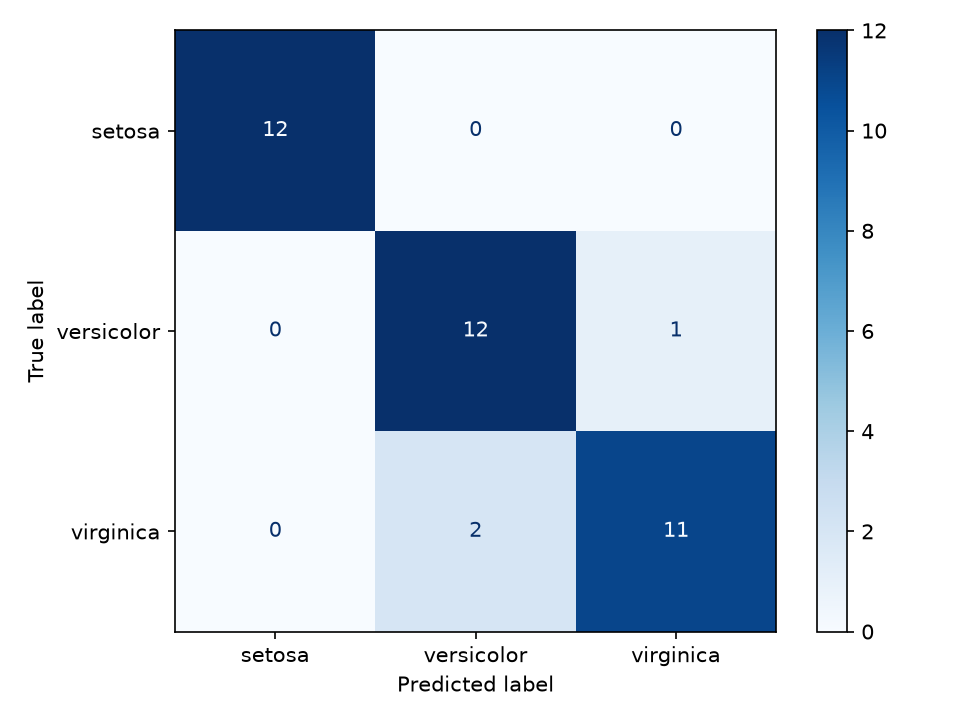
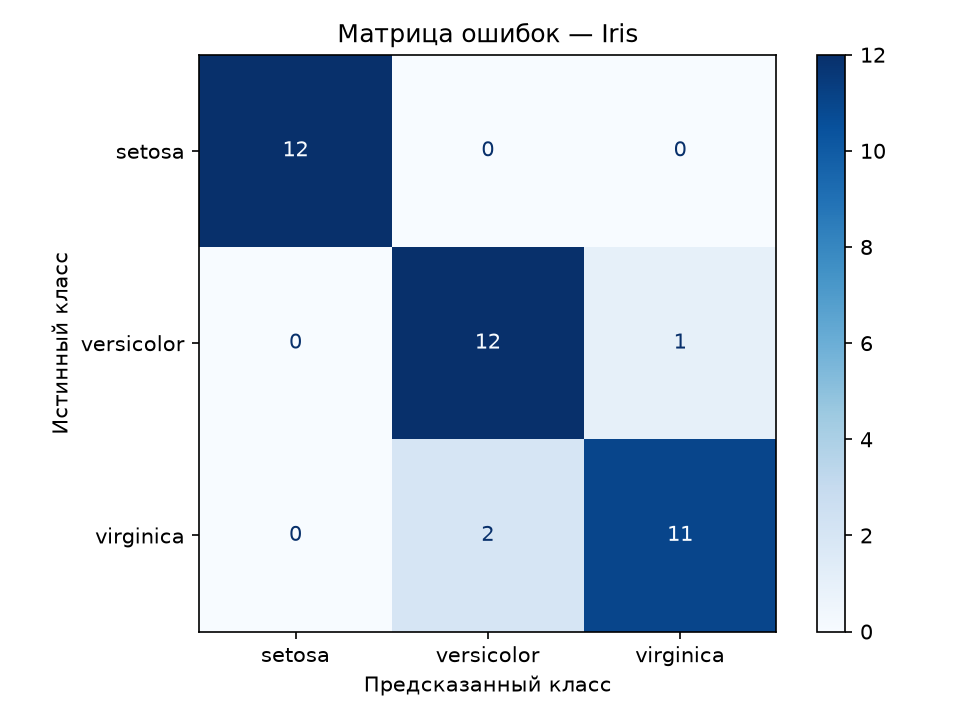
Update Lesson 2 homework

diff --git a/homework/homework_experiments.py b/homework/homework_experiments.py
@@ -21,6 +21,13 @@ OPTIMIZERS = {
     "RMSprop": torch.optim.RMSprop,
 }
 
+FEATURE_LABELS = {
+    "Baseline": "Исходные",
+    "Polynomial": "Полиномиальные",
+    "Interactions": "Взаимодействия",
+    "Statistics": "Статистические",
+}
+
 
 def load_experiment_data(csv_path):
     """Разделяет данные на обучающую, валидационную и тестовую выборки."""
@@ -150,7 +157,7 @@ def run_hyperparameter_search(train, validation, test, output_path):
             best_model = model
 
         logging.info(
-            "%-7s | lr=%5.3f | batch=%2d | validation loss=%.4f",
+            "%-7s | Скорость=%5.3f | Батч=%2d | Потери на валидации=%.4f",
             optimizer_name,
             lr,
             batch_size,
@@ -163,14 +170,14 @@ def run_hyperparameter_search(train, validation, test, output_path):
     best = results[0]
     test_metrics = evaluate_binary_model(best_model, test.features, test.targets)
 
-    print("\n3.1 Best hyperparameters")
-    print(f"Optimizer: {best['optimizer']}")
-    print(f"Learning rate: {best['learning_rate']}")
-    print(f"Batch size: {best['batch_size']}")
-    print(f"Validation loss: {best['validation_loss']:.4f}")
-    print(f"Test accuracy: {test_metrics['accuracy']:.4f}")
-    print(f"Test ROC-AUC: {test_metrics['roc_auc']:.4f}")
-    print(f"Results saved to: {output_path}")
+    print("\n3.1 Исследование гиперпараметров")
+    print(f"Лучший оптимизатор: {best['optimizer']}")
+    print(f"Скорость обучения: {best['learning_rate']}")
+    print(f"Размер батча: {best['batch_size']}")
+    print(f"Потери на валидации: {best['validation_loss']:.4f}")
+    print(f"Доля верных ответов на тестовой выборке: {test_metrics['accuracy']:.4f}")
+    print(f"ROC-AUC на тестовой выборке: {test_metrics['roc_auc']:.4f}")
+    print(f"Результаты сохранены: {output_path}")
 
     return best
 
@@ -208,10 +215,10 @@ def run_feature_engineering(train, validation, test, best, data_dir, plots_dir):
     original_count = train.features.shape[1]
     results = []
 
-    print("\n3.2 Feature engineering")
+    print("\n3.2 Feature Engineering")
     print(
-        f"{'Variant':<15} {'Features':>8} {'Val. loss':>10} "
-        f"{'Test acc.':>10} {'Test AUC':>10}"
+        f"{'Набор признаков':<16} {'Число':>8} {'BCE (валидация)':>16} "
+        f"{'Доля верных (тест)':>18} {'ROC-AUC (тест)':>15}"
     )
 
     for variant in ("Baseline", "Polynomial", "Interactions", "Statistics"):
@@ -251,10 +258,10 @@ def run_feature_engineering(train, validation, test, best, data_dir, plots_dir):
         )
 
         print(
-            f"{variant:<15} {train_x.shape[1]:>8} "
-            f"{val_metrics['loss']:>10.4f} "
-            f"{test_metrics['accuracy']:>10.4f} "
-            f"{test_metrics['roc_auc']:>10.4f}"
+            f"{FEATURE_LABELS[variant]:<16} {train_x.shape[1]:>8} "
+            f"{val_metrics['loss']:>16.4f} "
+            f"{test_metrics['accuracy']:>18.4f} "
+            f"{test_metrics['roc_auc']:>15.4f}"
         )
 
     results_path = data_dir / "feature_engineering_results.csv"
@@ -265,19 +272,20 @@ def run_feature_engineering(train, validation, test, best, data_dir, plots_dir):
 
     figure, axis = plt.subplots(figsize=(8, 4))
     bars = axis.bar(
-        [result["variant"] for result in results],
+        [FEATURE_LABELS[result["variant"]] for result in results],
         [result["validation_loss"] for result in results],
     )
     axis.bar_label(bars, fmt="%.4f", padding=3)
-    axis.set_ylabel("Validation loss (BCE)")
-    axis.set_title("Feature engineering — Breast Cancer")
+    axis.set_xlabel("Набор признаков")
+    axis.set_ylabel("Потери на валидации (BCE)")
+    axis.set_title("Сравнение наборов признаков — Breast Cancer")
     axis.margins(y=0.15)
     figure.tight_layout()
     figure.savefig(plot_path, dpi=150)
     plt.close(figure)
 
-    print(f"Results saved to: {results_path}")
-    print(f"Plot saved to: {plot_path}")
+    print(f"Результаты сохранены: {results_path}")
+    print(f"График сохранён: {plot_path}")
 
 
 def main():

diff --git a/homework/homework_datasets.py b/homework/homework_datasets.py
@@ -105,10 +105,11 @@ def main():
         dataset = CSVDataset(csv_path, target_column="price")
         features, target = dataset[0]
 
-        print(f"Rows: {len(dataset)}")
-        print(f"Feature shape: {tuple(dataset.features.shape)}")
-        print(f"First example: {features.tolist()}")
-        print(f"First target: {target.item()}")
+        print("\n2.1 Кастомный Dataset класс")
+        print(f"Количество строк: {len(dataset)}")
+        print(f"Размерность признаков: {tuple(dataset.features.shape)}")
+        print(f"Признаки первого примера: {features.tolist()}")
+        print(f"Целевое значение первого примера: {target.item()}")
 
 
 def save_dataset_csv(dataset, path):
@@ -151,9 +152,9 @@ def run_csv_regression(path, row_count):
             model(test.features), test.targets
         ).item()
     torch.save(model.state_dict(), path.parent.parent / "models" / "diabetes_linear.pth")
-    print("\n2.2 Diabetes — linear regression")
-    print(f"Best validation MSE: {best_mse:.2f}")
-    print(f"Test MSE: {test_mse:.2f}")
+    print("\nDiabetes — линейная регрессия")
+    print(f"Минимальная MSE на валидации: {best_mse:.2f}")
+    print(f"MSE на тестовой выборке: {test_mse:.2f}")
 
 
 def run_csv_classification(path, labels):
@@ -187,7 +188,7 @@ def run_csv_classification(path, labels):
             total_loss += loss.item() * len(targets)
 
         if epoch % 15 == 0:
-            logging.info("Epoch %d | Binary loss: %.4f", epoch, total_loss / len(train))
+            logging.info("Эпоха %d | Бинарная кросс-энтропия: %.4f", epoch, total_loss / len(train))
 
     model.eval()
     with torch.no_grad():
@@ -196,15 +197,16 @@ def run_csv_classification(path, labels):
     targets = test.targets.flatten().numpy()
     predictions = (probabilities >= 0.5).astype(int)
     torch.save(model.state_dict(), path.parent.parent / "models" / "breast_cancer_logistic.pth")
-    print("\n2.2 Breast Cancer — binary logistic regression")
-    print(f"Test accuracy: {accuracy_score(targets, predictions):.4f}")
-    print(f"Test ROC-AUC: {roc_auc_score(targets, probabilities):.4f}")
+    print("\nBreast Cancer — бинарная логистическая регрессия")
+    print(f"Доля верных ответов на тестовой выборке: {accuracy_score(targets, predictions):.4f}")
+    print(f"ROC-AUC на тестовой выборке: {roc_auc_score(targets, probabilities):.4f}")
 
 
 def run_csv_experiments():
     """Подготавливает два CSV-файла и запускает обучение моделей."""
     logging.basicConfig(level=logging.INFO, format="%(message)s")
     torch.manual_seed(42)
+    print("\n2.2 Эксперименты с различными датасетами")
 
     data_dir = Path(__file__).resolve().parent / "data"
     data_dir.mkdir(exist_ok=True)

diff --git a/homework/homework_model_modification.py b/homework/homework_model_modification.py
@@ -56,7 +56,7 @@ def train_linear_regression(
         with torch.no_grad():
             val_loss = criterion(model(x_val), y_val).item()
 
-        logging.info("Linear regression | Epoch %d | Validation MSE: %.5f", epoch, val_loss)
+        logging.info("Линейная регрессия | Эпоха %d | MSE на валидации: %.5f", epoch, val_loss)
 
         if val_loss < best_loss:
             best_loss = val_loss
@@ -85,10 +85,10 @@ def run_linear_regression():
     model = nn.Linear(1, 1)
     best_loss = train_linear_regression(model, train_loader, x[160:], y[160:])
 
-    print("\n1.1 Linear regression")
-    print(f"Best validation MSE: {best_loss:.5f}")
-    print(f"Weight: {model.weight.item():.3f}")
-    print(f"Bias: {model.bias.item():.3f}")
+    print("\n1.1 Расширение линейной регрессии")
+    print(f"Минимальная MSE на валидации: {best_loss:.5f}")
+    print(f"Вес: {model.weight.item():.3f}")
+    print(f"Смещение: {model.bias.item():.3f}")
 
 
 def run_multiclass_logistic_regression():
@@ -135,7 +135,7 @@ def run_multiclass_logistic_regression():
 
         if epoch % 20 == 0:
             logging.info(
-                "Logistic regression | Epoch %d | Loss: %.5f",
+                "Логистическая регрессия | Эпоха %d | Потери: %.5f",
                 epoch,
                 total_loss / len(train_loader.dataset),
             )
@@ -152,9 +152,9 @@ def run_multiclass_logistic_regression():
         y_test, probabilities, multi_class="ovr", average="macro"
     )
 
-    print("\n1.2 Multiclass logistic regression — Iris")
-    print(f"Precision: {precision:.4f}")
-    print(f"Recall:    {recall:.4f}")
+    print("\n1.2 Расширение логистической регрессии — Iris")
+    print(f"Точность (precision): {precision:.4f}")
+    print(f"Полнота (recall): {recall:.4f}")
     print(f"F1-score:  {f1:.4f}")
     print(f"ROC-AUC:   {auc:.4f}")
 
@@ -167,10 +167,15 @@ def run_multiclass_logistic_regression():
         display_labels=iris.target_names,
         cmap="Blues",
     )
+    display.ax_.set(
+        title="Матрица ошибок — Iris",
+        xlabel="Предсказанный класс",
+        ylabel="Истинный класс",
+    )
     display.figure_.tight_layout()
     display.figure_.savefig(plot_path, dpi=150)
     plt.close(display.figure_)
-    print(f"Confusion matrix saved to: {plot_path}")
+    print(f"Матрица ошибок сохранена: {plot_path}")
 
 
 def main():

diff --git a/homework/README.md b/homework/README.md
@@ -1,27 +1,27 @@
 # Домашнее задание к уроку 2. Линейная и логистическая регрессия
 
-## 1. Модификация моделей
+## 1. Модификация существующих моделей
 
 В линейной регрессии к функции потерь добавлены L1- и L2-регуляризация. Ранняя остановка отслеживает MSE на валидационной выборке и восстанавливает параметры лучшей эпохи. На данных с зависимостью `y = 3x + 2` получены вес `2.996`, смещение `2.016` и минимальная валидационная MSE `0.01023`. Обучение остановилось на 42-й эпохе.
 
 Для многоклассовой классификации на Iris использованы линейный слой с тремя выходами и `CrossEntropyLoss`. На тестовой выборке получены macro precision `0.9246`, macro recall `0.9231`, macro F1 `0.9230` и macro ROC-AUC (OvR) `0.9877`. Матрица ошибок сохранена в `plots/confusion_matrix.png`.
 
-## 2. Работа с CSV
+## 2. Работа с датасетами
 
 `CSVDataset` читает CSV, стандартизирует числовые признаки, кодирует категориальные признаки методом one-hot и сохраняет бинарные признаки в формате 0/1. Параметры предобработки вычисляются на обучающей выборке и применяются к остальным выборкам.
 
 | Набор данных | Модель | Результат на тестовой выборке |
 |---|---|---|
 | Diabetes | Линейная регрессия | MSE `2925.18` |
-| Breast Cancer | Бинарная логистическая регрессия | Accuracy `0.9649`, ROC-AUC `0.9960` |
+| Breast Cancer | Бинарная логистическая регрессия | Доля верных ответов `0.9649`, ROC-AUC `0.9960` |
 
 CSV-файлы создаются в `data/`. Веса моделей сохраняются в `models/`.
 
-## 3. Эксперименты
+## 3. Эксперименты и анализ
 
 На Breast Cancer проверены 27 комбинаций оптимизаторов SGD, Adam и RMSprop, скоростей обучения `0.001`, `0.01`, `0.05` и размеров батча `16`, `32`, `64`. Лучший результат по валидационной функции потерь получен с RMSprop при скорости обучения `0.01` и размере батча `16`.
 
-| Признаки | Количество | Валидационная BCE | Test accuracy | Test ROC-AUC |
+| Признаки | Количество | BCE на валидации | Доля верных ответов на тесте | ROC-AUC на тесте |
 |---|---:|---:|---:|---:|
 | Исходные | 30 | 0.0547 | 0.9649 | 0.9944 |
 | Полиномиальные | 35 | 0.0629 | 0.9474 | 0.9914 |
